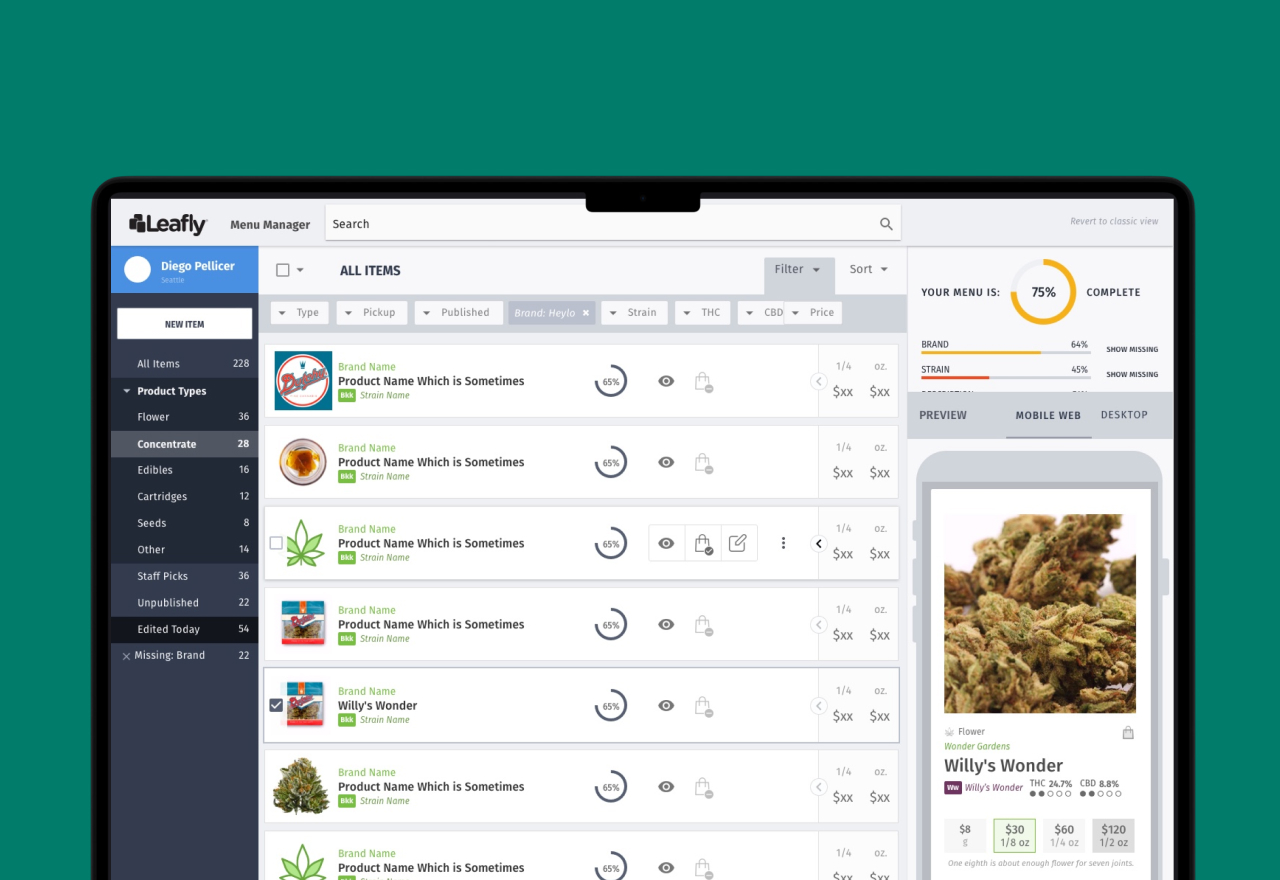
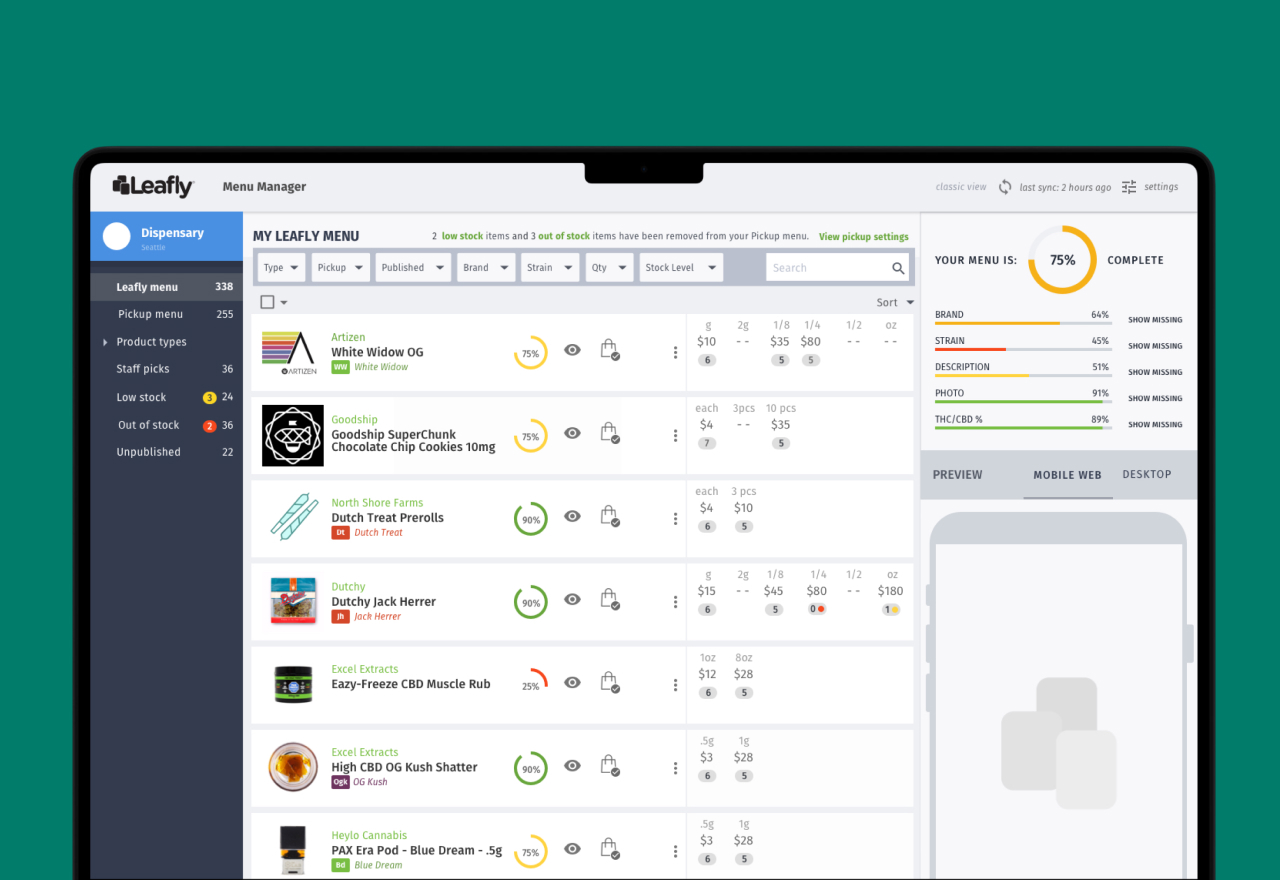
added goog images, new heroes, reordered front page

diff --git a/_site/index.html b/_site/index.html
@@ -171,23 +171,6 @@
         <div class="project-grid">
 
              
-            <div class="project-card" style="background:#4A4A4A">
-
-                <a class="project-meta" href="/process/">
-                    <h3 class="project-title">Design Process</h3>
-                    
-                    <h4 class="project-type">Tools and methology</h4>
-                    
-                </a>
-
-                <a href="/process/" class="project-thumbnail">
-                    <img class="project-thumbnail-image" src="images/thumbs/process@2x.jpg" />
-                </a>
-
-            </div>
-            <!-- /projectcard -->
-
-              
             <div class="project-card" style="background:#EA4335">
 
                 <a class="project-meta" href="/work/googlebugtracking/">
@@ -200,112 +183,68 @@
                 <a href="/work/googlebugtracking/" class="project-thumbnail">
                     <img class="project-thumbnail-image" src="/images/thumbs/google@2x.jpg" />
                 </a>
-
             </div>
             <!-- /projectcard -->
-
               
             <div class="project-card" style="background:#1C284D">
 
                 <a class="project-meta" href="/work/trupanion/">
                     <h3 class="project-title">Trupanion</h3>
                     
-                    <h4 class="project-type">veterinary claims portal</h4>
+                    <h4 class="project-type">veterinary portal</h4>
                     
                 </a>
 
                 <a href="/work/trupanion/" class="project-thumbnail">
                     <img class="project-thumbnail-image" src="/images/thumbs/trupanion@2x.jpg" />
                 </a>
-
             </div>
             <!-- /projectcard -->
-
               
             <div class="project-card" style="background:#1E3931">
 
                 <a class="project-meta" href="/work/starbucks/">
                     <h3 class="project-title">Starbucks</h3>
                     
-                    <h4 class="project-type">inventory management</h4>
+                    <h4 class="project-type">mobile inventory management</h4>
                     
                 </a>
 
                 <a href="/work/starbucks/" class="project-thumbnail">
                     <img class="project-thumbnail-image" src="/images/thumbs/sbux@2x.jpg" />
                 </a>
-
             </div>
             <!-- /projectcard -->
-
               
             <div class="project-card" style="background:#017c6b">
 
                 <a class="project-meta" href="/work/leafly/">
                     <h3 class="project-title">Leafly</h3>
                     
-                    <h4 class="project-type">b2b ecommerce management</h4>
+                    <h4 class="project-type">ecommerce management</h4>
                     
                 </a>
 
                 <a href="/work/leafly/" class="project-thumbnail">
                     <img class="project-thumbnail-image" src="/images/thumbs/leafly@2x.jpg" />
                 </a>
-
             </div>
             <!-- /projectcard -->
-
               
             <div class="project-card" style="background:#57340F">
 
                 <a class="project-meta" href="/work/analogkit/">
                     <h3 class="project-title">AnalogKit</h3>
                     
-                    <h4 class="project-type">Mobile UI Design</h4>
+                    <h4 class="project-type">Mobile synthesizer playground</h4>
                     
                 </a>
 
                 <a href="/work/analogkit/" class="project-thumbnail">
                     <img class="project-thumbnail-image" src="/images/thumbs/analogkit@2x.jpg" />
                 </a>
-
             </div>
             <!-- /projectcard -->
-
-              
-            <div class="project-card" style="background:#9C2E44">
-
-                <a class="project-meta" href="/work/hydrocarboncollective/">
-                    <h3 class="project-title">Hydrocarbon Collective</h3>
-                    
-                    <h4 class="project-type">Brand & Print</h4>
-                    
-                </a>
-
-                <a href="/work/hydrocarboncollective/" class="project-thumbnail">
-                    <img class="project-thumbnail-image" src="/images/thumbs/hydrocarbon@2x.jpg" />
-                </a>
-
-            </div>
-            <!-- /projectcard -->
-
-              
-            <div class="project-card" style="background:#2E3736">
-
-                <a class="project-meta" href="/work/corporatetorsos/">
-                    <h3 class="project-title">Corporate Torsos Need Not Apply</h3>
-                    
-                    <h4 class="project-type">Book design<br />and Guerilla Marketing</h4>
-                    
-                </a>
-
-                <a href="/work/corporatetorsos/" class="project-thumbnail">
-                    <img class="project-thumbnail-image" src="/images/thumbs/ctnna@2x.jpg" />
-                </a>
-
-            </div>
-            <!-- /projectcard -->
-
               
             <div class="project-card" style="background:#272B2F">
 
@@ -319,27 +258,53 @@
                 <a href="/work/cleartune/" class="project-thumbnail">
                     <img class="project-thumbnail-image" src="/images/thumbs/cleartune@2x.jpg" />
                 </a>
-
             </div>
             <!-- /projectcard -->
+              
+            <div class="project-card" style="background:#9C2E44">
 
+                <a class="project-meta" href="/work/hydrocarboncollective/">
+                    <h3 class="project-title">Hydrocarbon Collective</h3>
+                    
+                    <h4 class="project-type">Brand & Print</h4>
+                    
+                </a>
+
+                <a href="/work/hydrocarboncollective/" class="project-thumbnail">
+                    <img class="project-thumbnail-image" src="/images/thumbs/hydrocarbon@2x.jpg" />
+                </a>
+            </div>
+            <!-- /projectcard -->
               
             <div class="project-card" style="background:#477780">
 
                 <a class="project-meta" href="/work/fcsgroup/">
                     <h3 class="project-title">FCS Group</h3>
                     
-                    <h4 class="project-type">web Design & Development</h4>
+                    <h4 class="project-type">web design and development</h4>
                     
                 </a>
 
                 <a href="/work/fcsgroup/" class="project-thumbnail">
                     <img class="project-thumbnail-image" src="/images/thumbs/fcs@2x.jpg" />
                 </a>
-
             </div>
             <!-- /projectcard -->
+              
+            <div class="project-card" style="background:#2E3736">
 
+                <a class="project-meta" href="/work/corporatetorsos/">
+                    <h3 class="project-title">Corporate Torsos Need Not Apply</h3>
+                    
+                    <h4 class="project-type">Book design<br />and Guerilla Marketing</h4>
+                    
+                </a>
+
+                <a href="/work/corporatetorsos/" class="project-thumbnail">
+                    <img class="project-thumbnail-image" src="/images/thumbs/ctnna@2x.jpg" />
+                </a>
+            </div>
+            <!-- /projectcard -->
               
             <div class="project-card" style="background:#539388">
 
@@ -351,26 +316,39 @@
                 <a href="/work/visualui/" class="project-thumbnail">
                     <img class="project-thumbnail-image" src="images/thumbs/visual@2x.jpg" />
                 </a>
-
             </div>
             <!-- /projectcard -->
-
               
-            <div class="project-card" style="background:#517334">
+            <div class="project-card" style="background:#4A4A4A">
 
-                <a class="project-meta" href="/work/personal/">
-                    <h3 class="project-title">Personal Projects</h3>
+                <a class="project-meta" href="/process/">
+                    <h3 class="project-title">Design Process</h3>
+                    
+                    <h4 class="project-type">Tools and methology</h4>
                     
                 </a>
 
-                <a href="/work/personal/" class="project-thumbnail">
-                    <img class="project-thumbnail-image" src="/images/thumbs/oldboy@2x.jpg" />
+                <a href="/process/" class="project-thumbnail">
+                    <img class="project-thumbnail-image" src="images/thumbs/process@2x.jpg" />
+                </a>
+            </div>
+            <!-- /projectcard -->
+             
+
+            <div class="project-card" style="background:#222222">
+
+                <a class="project-meta" target="_blank" href="https://www.rocketkar.com">
+                    <h3 class="project-title">Rocketkar Studios</h3>
+
+                    <h4 class="project-type">photography, videography &amp; livestreaming</h4>
+
+                </a>
+                <a target="_blank" href="https://www.rocketkar.com" class="project-thumbnail">
+                    <img class="project-thumbnail-image" src="images/thumbs/rocketkar2@2x.jpg">
                 </a>
 
             </div>
-            <!-- /projectcard -->
 
-             
 
         </div>
         <!-- /grid-container -->

diff --git a/_layouts/frontpage.html b/_layouts/frontpage.html
@@ -34,11 +34,24 @@
                 <a href="{{ post.url }}" class="project-thumbnail">
                     <img class="project-thumbnail-image" src="{{ post.thumbnail }}" />
                 </a>
-
             </div>
             <!-- /projectcard -->
-
             {% endif %} {% endfor %}
+
+            <div class="project-card" style="background:#222222">
+
+                <a class="project-meta" target="_blank" href="https://www.rocketkar.com">
+                    <h3 class="project-title">Rocketkar Studios</h3>
+
+                    <h4 class="project-type">photography, videography &amp; livestreaming</h4>
+
+                </a>
+                <a target="_blank" href="https://www.rocketkar.com" class="project-thumbnail">
+                    <img class="project-thumbnail-image" src="images/thumbs/rocketkar2@2x.jpg">
+                </a>
+
+            </div>
+
 
         </div>
         <!-- /grid-container -->
